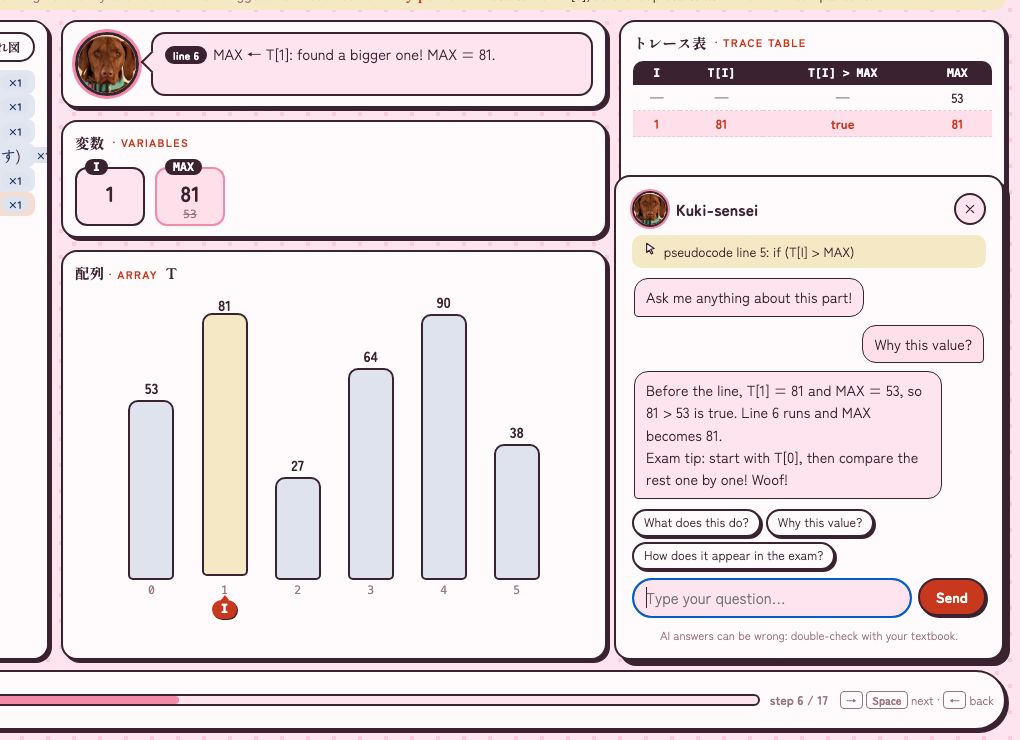
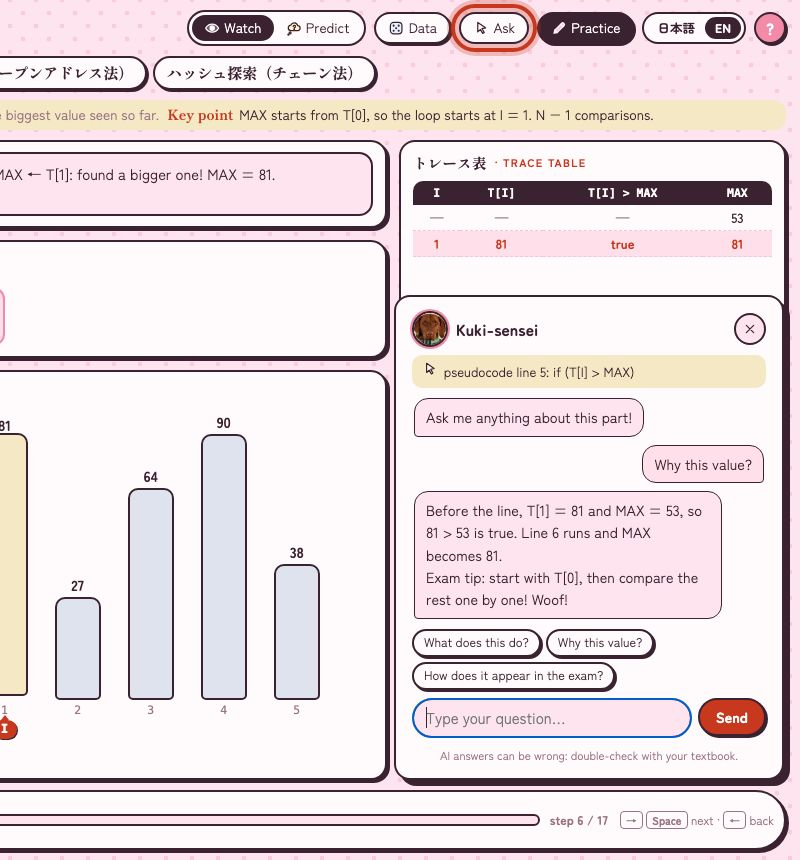
Guide, page 7 : le bouton 質問 entouré, au-dessus du chat
Pour qu'on voie tout de suite où cliquer. Le mode démo accepte
« repere=<id> » pour entourer un élément sur les captures.

diff --git a/index.html b/index.html
@@ -9,7 +9,7 @@
 <link rel="preconnect" href="https://fonts.googleapis.com">
 <link rel="preconnect" href="https://fonts.gstatic.com" crossorigin>
 <link rel="stylesheet" href="https://fonts.googleapis.com/css2?family=Klee+One:wght@400;600&family=Shippori+Mincho:wght@500;700&family=Zen+Kaku+Gothic+New:wght@400;500;700&family=Zen+Maru+Gothic:wght@500;700&display=swap">
-<link rel="stylesheet" href="algo.css?v=31">
+<link rel="stylesheet" href="algo.css?v=32">
 </head>
 <body>
 <svg width="0" height="0" style="position:absolute" aria-hidden="true">
@@ -167,10 +167,10 @@
   <p id="chat-note" class="chat-note muted"></p>
 </dialog>
 
-<script src="algos.js?v=31"></script>
-<script src="flow.js?v=31"></script>
-<script src="visus.js?v=31"></script>
-<script src="fete.js?v=31"></script>
-<script src="moteur.js?v=31"></script>
+<script src="algos.js?v=32"></script>
+<script src="flow.js?v=32"></script>
+<script src="visus.js?v=32"></script>
+<script src="fete.js?v=32"></script>
+<script src="moteur.js?v=32"></script>
 </body>
 </html>

diff --git a/moteur.js b/moteur.js
@@ -797,6 +797,7 @@ function demo(p) {
   if (p.get("question")) { const k = S.steps.findIndex((st, i) => i > S.cur && st.q); if (k > 0) { S.attente = k; S.retour = null; maj(); } }
   if (p.get("ouvrir")) { choisirOnglet(p.get("onglet") || "blancs"); ouvrir("#d-" + p.get("ouvrir")); }
   if (p.get("pointer")) { basculerPointage(true); document.querySelector(`#code li[data-l="${p.get("pointer")}"]`)?.classList.add("survol"); }
+  if (p.get("repere")) document.getElementById(p.get("repere"))?.classList.add("repere");
   if (p.get("chat")) {
     const li = document.querySelector(`#code li[data-l="${p.get("chat")}"]`);
     ouvrirChat(decrire(li));

diff --git a/algo.css b/algo.css
@@ -479,3 +479,4 @@ body.pointage #code li.survol { outline: 3px dashed var(--shu); outline-offset: 
 .guide-image { aspect-ratio: auto; height: min(50vh, 460px); }
 .guide-image img { width: auto; height: auto; max-width: 100%; max-height: 100%; object-fit: contain; }
 .guide-image { display: flex; align-items: center; justify-content: center; }
+body.demo .repere { outline: 4px solid var(--shu); outline-offset: 4px; box-shadow: 0 0 0 12px color-mix(in srgb, var(--shu) 25%, transparent); position: relative; z-index: 2; }
